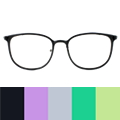
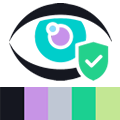
2.1.5

diff --git a/demos/sample.vue b/demos/sample.vue
@@ -1,0 +1,22 @@
+<script setup>
+import { reactive, computed } from 'vue'
+
+const author = reactive({
+  name: 'John Doe',
+  books: [
+    'Vue 2 - Advanced Guide',
+    'Vue 3 - Basic Guide',
+    'Vue 4 - The Mystery'
+  ]
+})
+
+// a computed ref
+const publishedBooksMessage = computed(() => {
+  return author.books.length > 0 ? 'Yes' : 'No'
+})
+</script>
+
+<template>
+  <p>Has published books:</p>
+  <span>{{ publishedBooksMessage }}</span>
+</template>

diff --git a/README.md b/README.md
@@ -2,11 +2,11 @@
 
 This high-contrast theme is vastly easier on the eyes and reduces eye strain.
 
-When you use your computer all day long, your doctor may have recommended that you turn on the High Contrast mode. It's an accessibility feature that can help screen users reduce the impact of blue light and glare on their eyes.
-
 ![theme preview](https://raw.githubusercontent.com/andreluis-oliveira/vscode-palenight-theme-high-contrast/master/screenshots/preview.jpg)
 
 ![theme preview](https://raw.githubusercontent.com/andreluis-oliveira/vscode-palenight-theme-high-contrast/master/screenshots/react.jpg)
+
+![theme preview](https://raw.githubusercontent.com/andreluis-oliveira/vscode-palenight-theme-high-contrast/master/screenshots/vue.jpg)
 
 ![theme preview](https://raw.githubusercontent.com/andreluis-oliveira/vscode-palenight-theme-high-contrast/master/screenshots/css.jpg)
 
@@ -19,20 +19,22 @@ High-contrast mode is designed for users with weak eyesight to help them read te
 # High-Contrast theme benefits
 
 1. Improves focus.
-1. Improves visibility and readability.
-1. Reduces visual noise.
-1. Eases light sensitivity.
-1. Reduces eye strain.
-1. Eases light sensitivity.
-1. Reduces visual noise
-1. If a screen has flicker problems, dark backgrounds can reduce flickering.
-1. Dark themes are less likely to trigger photophobia (sensitivity to light).
-1. Light-colored text on a dark background can be easier to read for a long period of time.
-1. Dark themes can make screens easier to use in low-light conditions.
-1. Try to avoid low-contrast color schemes as they are stressful and result in eye strain and fatigue.
+2. Improves visibility and readability.
+3. Reduces visual noise.
+4. Eases light sensitivity.
+5. Reduces eye strain.
+6. Eases light sensitivity.
+7. Reduces visual noise
+8. If a screen has flicker problems, dark backgrounds can reduce flickering.
+9. Dark themes are less likely to trigger photophobia (sensitivity to light).
+10. Light-colored text on a dark background can be easier to read for a long period of time.
+11. Dark themes can make screens easier to use in low-light conditions.
+12. Try to avoid low-contrast color schemes as they are stressful and result in eye strain and fatigue.
 
 ## Credits
 
+The font used in the screenshot is [Cascadia Code](https://github.com/microsoft/cascadia-code/)
+
 This theme is a fork of [Palenight](https://marketplace.visualstudio.com/items?itemName=whizkydee.material-palenight-theme)
 
-The font used in the screenshot is [Cascadia Code](https://github.com/microsoft/cascadia-code/).
+Eye Insurance vector by tezar tantular from [Noun Project](https://thenounproject.com/browse/icons/term/eye-insurance/)

diff --git a/changelog.md b/changelog.md
@@ -1,3 +1,7 @@
+# 2.1.5 (11.04.2023)
+
+- Changed description and icon logo.
+
 # 2.1.4 (04.04.2023)
 
 - Changed the name, description, and icon logo.
